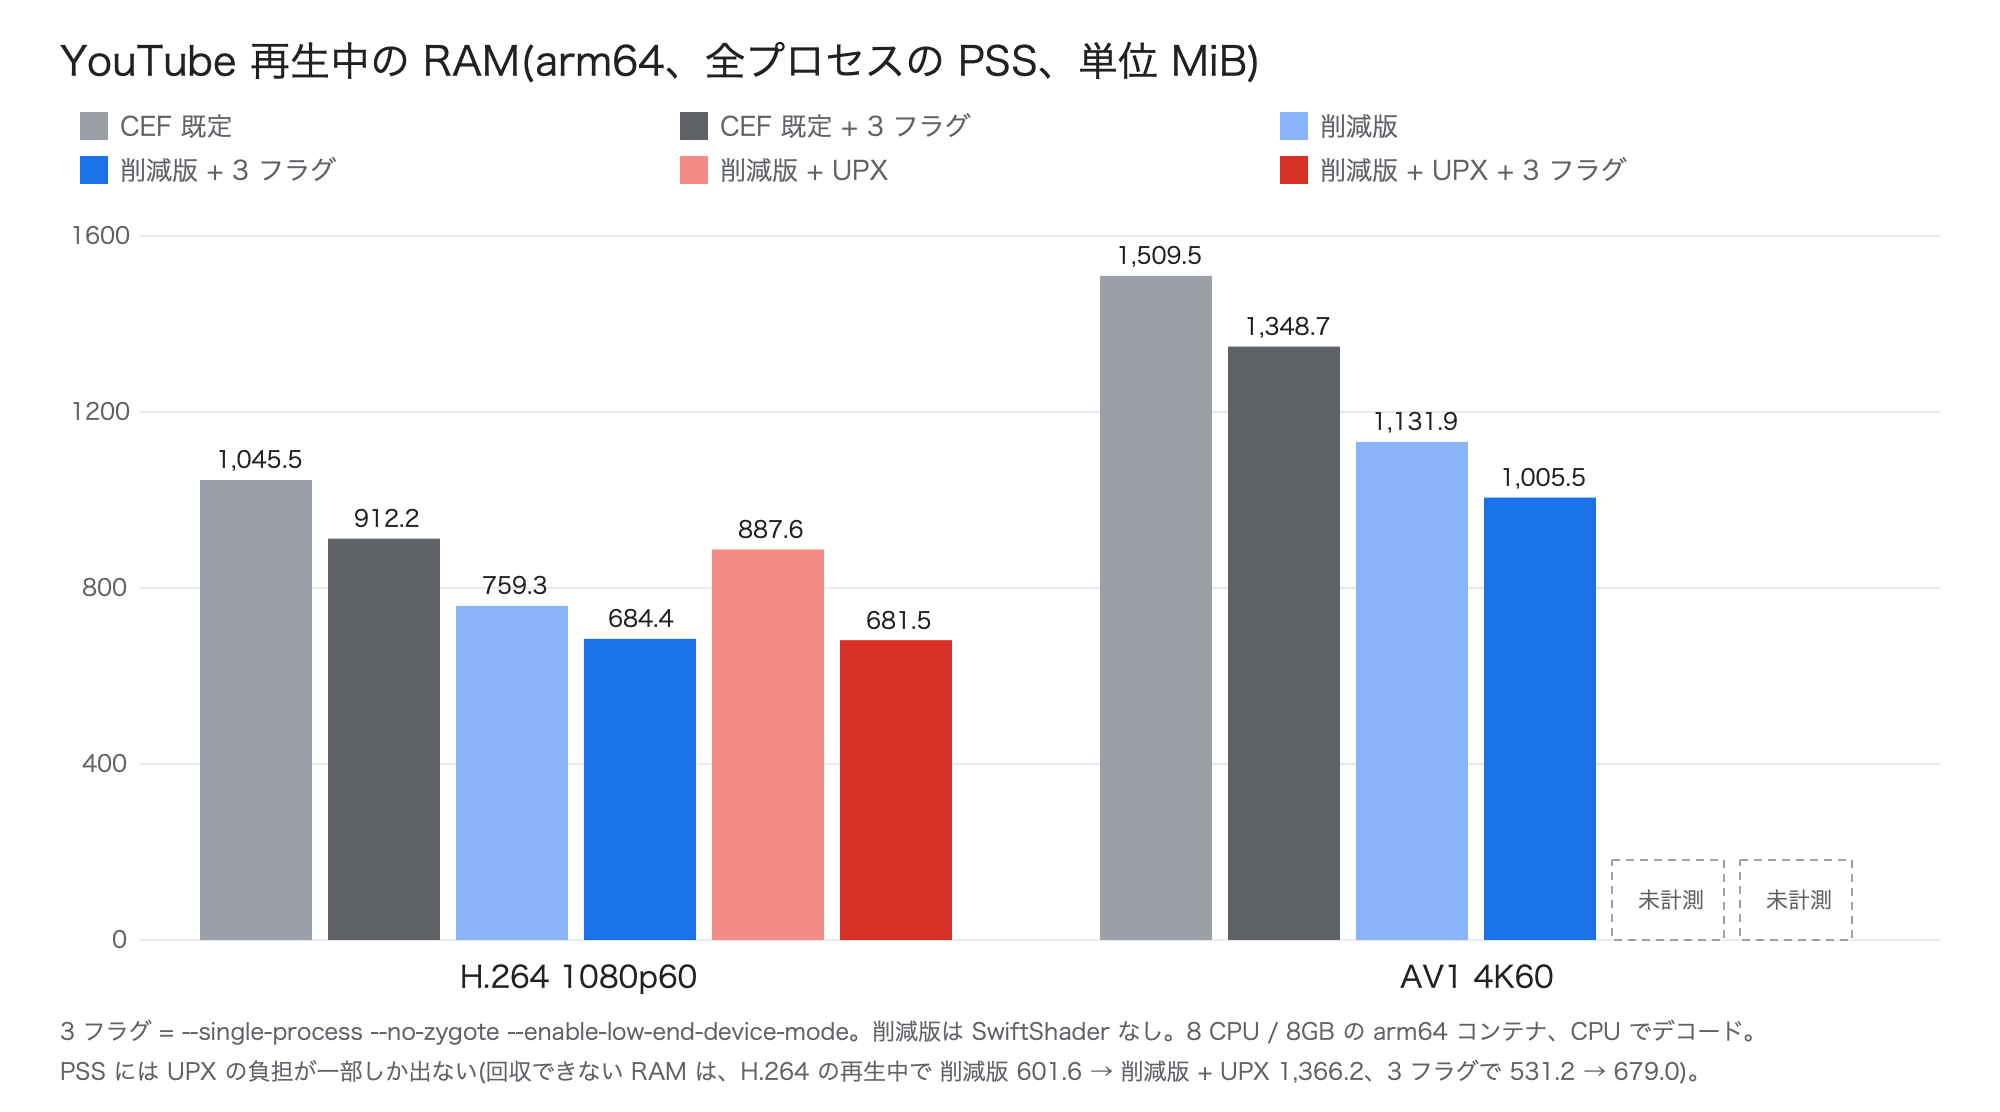
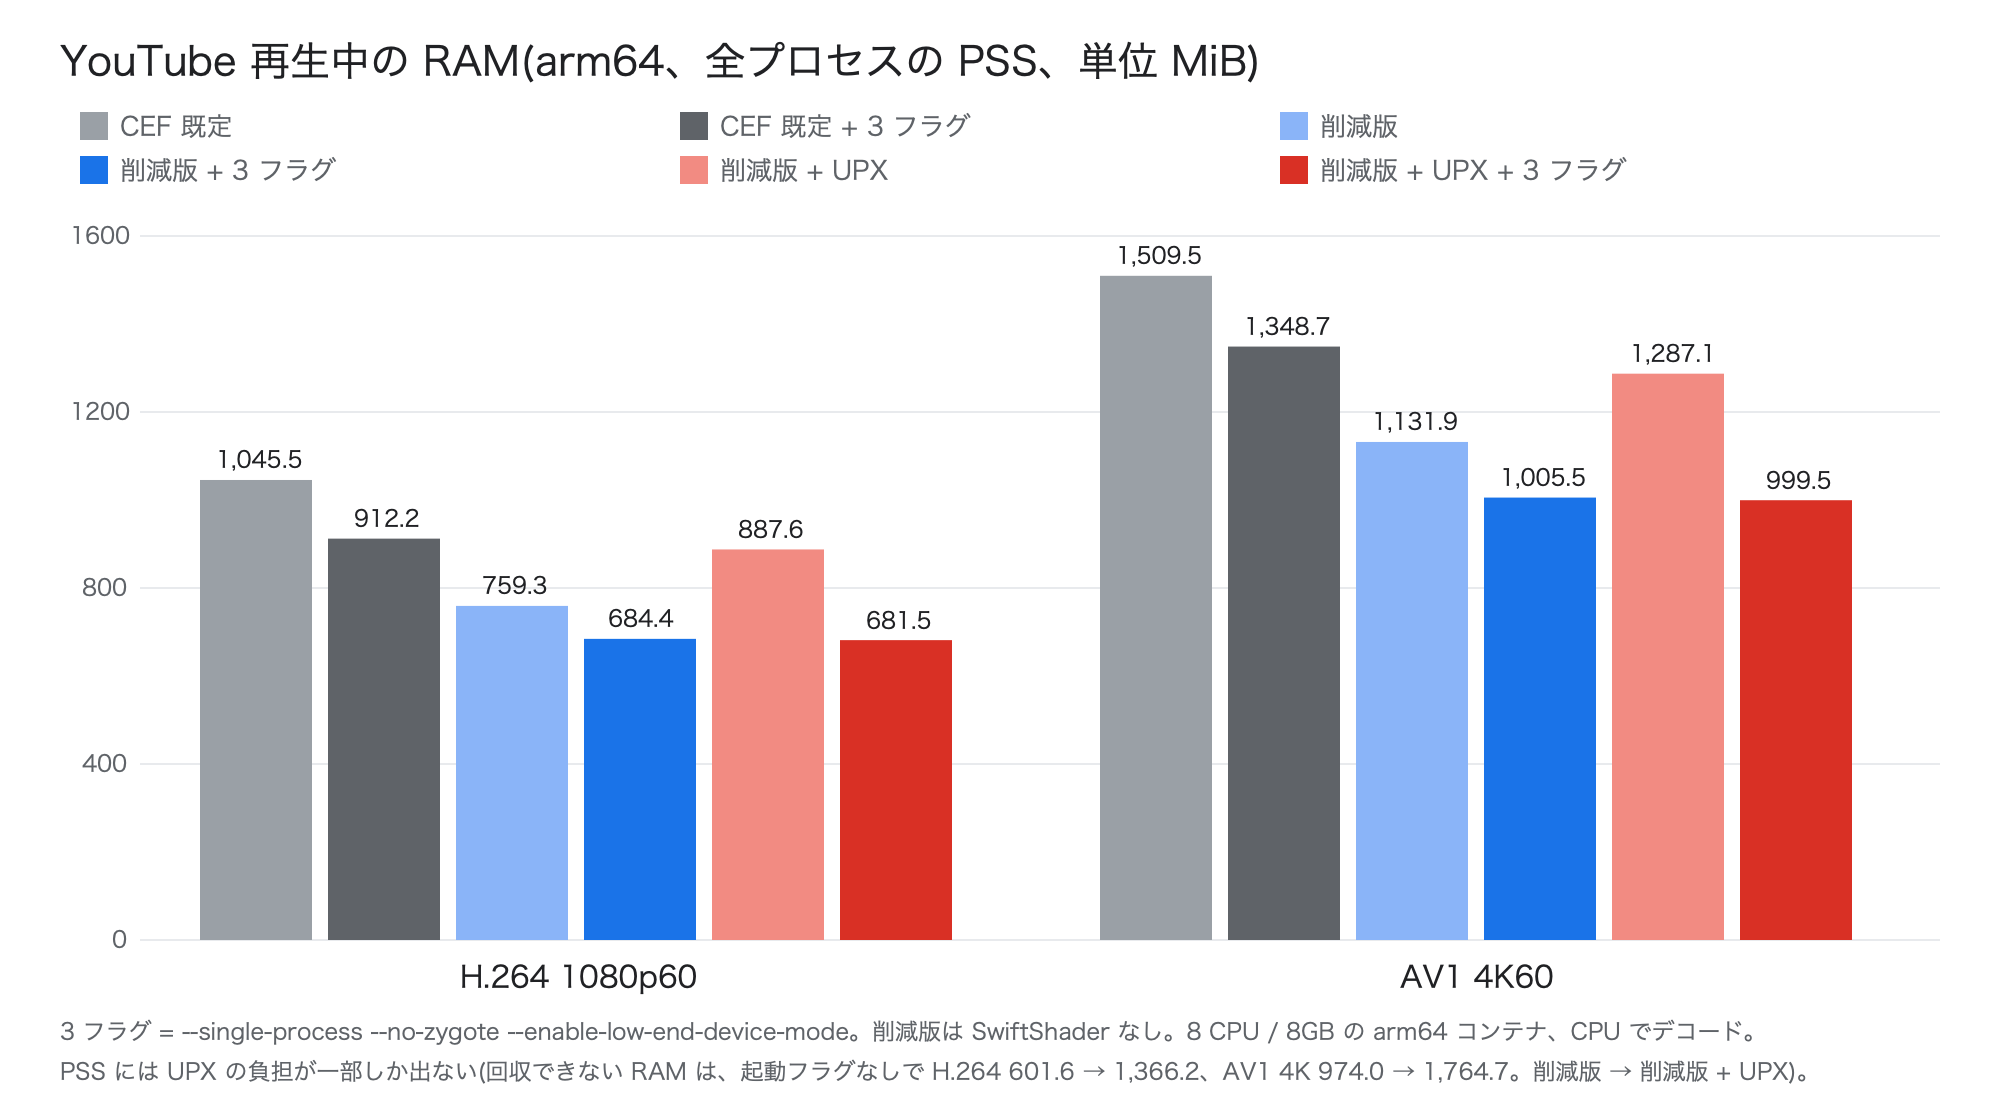
UPX 版の AV1 4K60 再生中の RAM を計測して反映した

Changed region(s): [[0.806, 0.3058, 0.93, 0.8561], [0.372, 0.9478, 0.899, 0.9784]]

diff --git a/README.md b/README.md
@@ -22,7 +22,7 @@ YouTube 再生中の RAM(arm64、全プロセスの PSS、S/W デコード):
 | H.264 1080p60 | 1,045.5MiB | 684.4MiB(−35%) |
 | AV1 4K60 | 1,509.5MiB | 1,005.5MiB(−33%) |
 
-UPX で圧縮した G2-tv(H.264 1080p60、3 フラグ): PSS 681.5MiB、回収できない RAM(cgroup)679.0MiB(CEF 既定 + 3 フラグは 661.9MiB、G2-tv + 3 フラグは 531.2MiB)。PSS には UPX の負担が出ない(後述の「UPX で圧縮する場合」)。
+UPX で圧縮した G2-tv(3 フラグ): H.264 1080p60 で PSS 681.5MiB、回収できない RAM(cgroup)679.0MiB(CEF 既定 + 3 フラグは 661.9MiB、G2-tv + 3 フラグは 531.2MiB)。AV1 4K60 で PSS 999.5MiB、cgroup 997.1MiB(CEF 既定 + 3 フラグは 1,094.5MiB、G2-tv + 3 フラグは 850.2MiB)。PSS には UPX の負担が出ない(後述の「UPX で圧縮する場合」)。
 
 ## 対象のソース
 
@@ -134,7 +134,7 @@ arm64(G2)は、手順 2 のあとに `patches/chromium/g2.patch` を当て、`ar
 | 同上 | 1 | G2-tv | 188.5 | 48.8 | 139.7 | 56.7 |
 | 同上 | 1 | G2-tv + UPX | 188.5 | 162.9 | 25.6 | 210.0 |
 
-H.264 1080p 再生中の回収できない RAM(3 フラグ): CEF 既定 661.9、G2-tv 537.7、G2-tv + UPX 679.0MiB。
+再生中の回収できない RAM(3 フラグ): H.264 1080p60 で CEF 既定 661.9、G2-tv 537.7、G2-tv + UPX 679.0MiB。AV1 4K60 で CEF 既定 1,094.5、G2-tv 868.2、G2-tv + UPX 997.1MiB。
 
 
 同じ配布物を squashfs(xz、1MiB ブロック)に入れると 60.7MB(RAM は未計測)。図は `scripts/figs_upx2.py` で生成。
